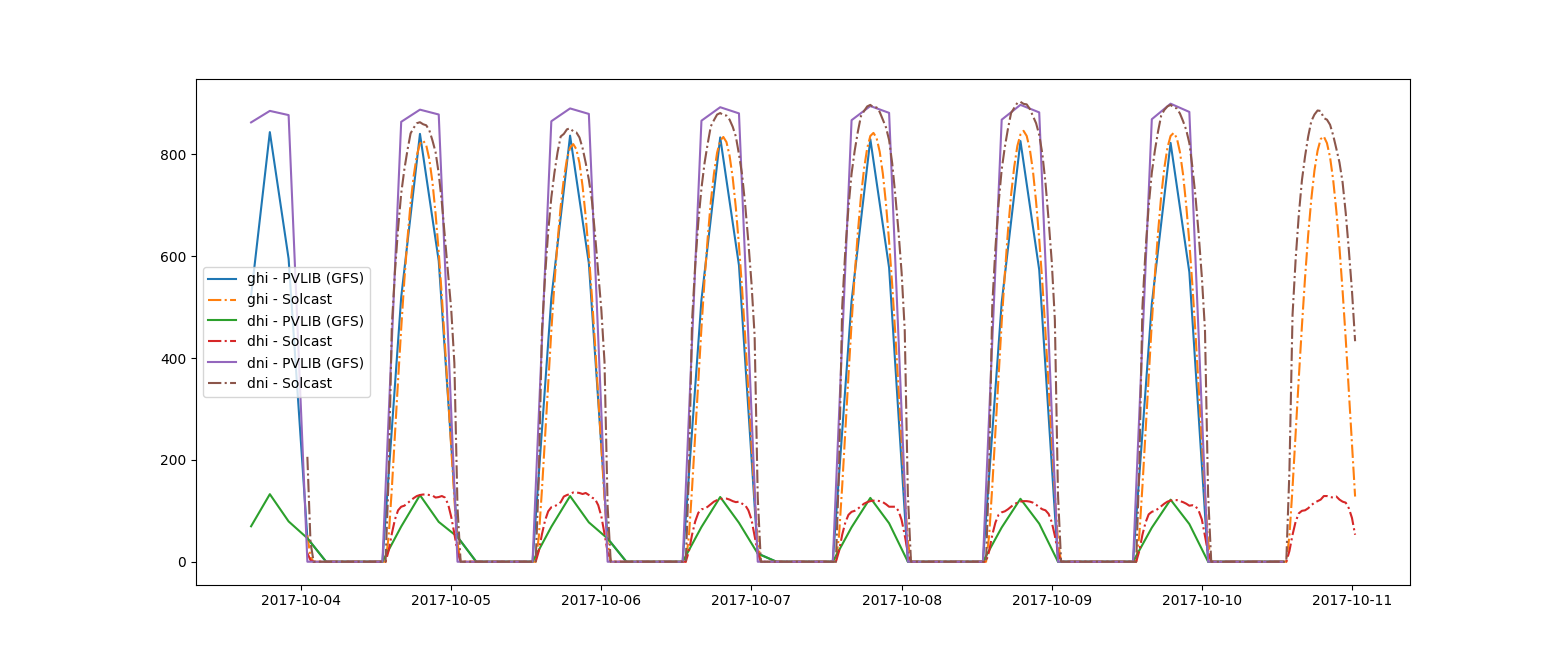
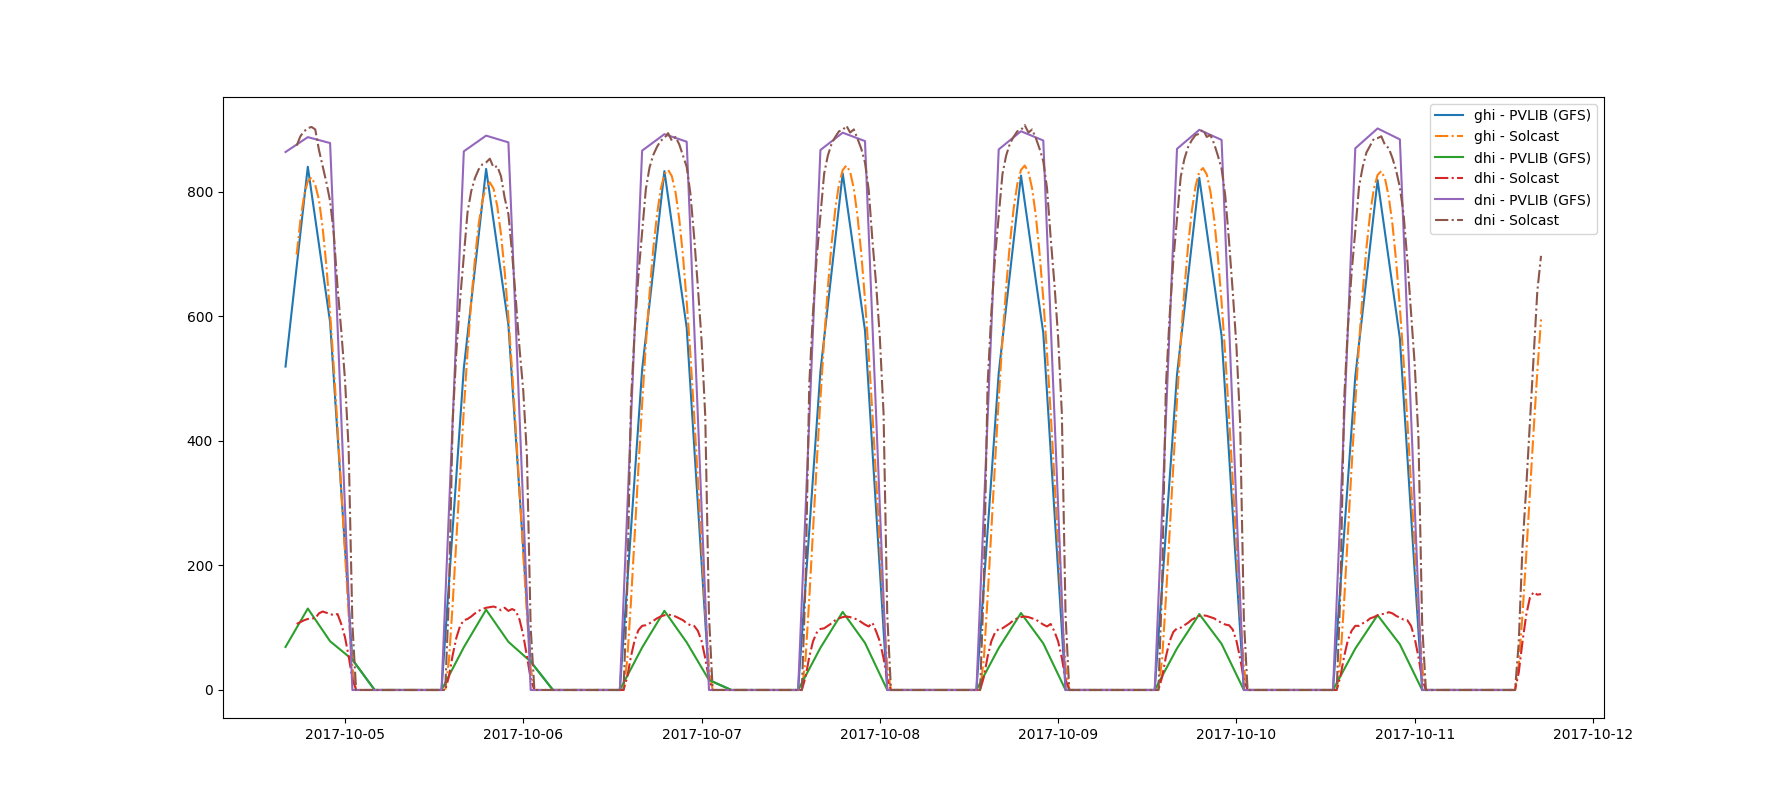
Consolidate solcast and pvlib code to main.py

diff --git a/main.py b/main.py
@@ -1,10 +1,18 @@
 import matplotlib.pyplot as plt
+import timeit
 from solcast_frames.latlng import LatLng
 from solcast_frames.radiationframehandler import RadiationFrameHandler
 from solcast_frames.powerframehandler import PowerFrameHandler
 
+import pandas as pd
+import datetime
+# import pvlib forecast models
+from pvlib.forecast import GFS, NAM, NDFD, HRRR, RAP
+
+
+
 plt.interactive(False) # Turn this off to create plots
-location = LatLng(lat=-33.86785, lng=151.215256, name="Sydney", tag="No wild Koalas")
+location = LatLng(lat=-33.86785, lng=151.215256, name="Sydney", tag="No wild Koalas", timezone="Australia/Sydney")
 print(location.desc())
 
 # Plot the power `pv_estimate`
@@ -15,8 +23,8 @@ print(location.desc())
 # tilt | range: [0 to 90] | default: 23
 # install_date | format: yyyyMMdd Will be ignored if a loss_factor is supplied
 # latest | [True, False] | default False
-powerEstimatedActuals = PowerFrameHandler.estimated_actuals(location, 5000, azimuth=0)
-powerEstimatedActuals.pv_estimate.plot()
+power_estimated_actuals = PowerFrameHandler.estimated_actuals(location, 5000, azimuth=0)
+power_estimated_actuals.pv_estimate.plot()
 
 # Plot the power `pv_estimate`
 # Required fields latlng valid position, capacity as integer > 0
@@ -25,18 +33,55 @@ powerEstimatedActuals.pv_estimate.plot()
 # tilt | range: [0 to 90] | default: 23
 # install_date | format: yyyyMMdd Will be ignored if a loss_factor is supplied
 # loss_factor | [0 to 1] | default 0.9
-powerForecast = PowerFrameHandler.forecast(location, 5000)
-powerForecast.pv_estimate.plot()
+fx_solcast_power = PowerFrameHandler.forecast(location, 5000)
+fx_solcast_power.pv_estimate.plot()
 plt.show()
 
 # Plot the radiation `ghi` field
 # Required fields latlng valid position
 # The following optional keyword arguments are recognized by the solcast-py library
 # latest | [True, False] | default False
-radiationEstimatedActuals = RadiationFrameHandler.estimated_actuals(location)
-radiationEstimatedActuals.ghi.plot()
+radiation_estimated_actuals = RadiationFrameHandler.estimated_actuals(location)
+radiation_estimated_actuals.ghi.plot()
 # Plot the radiation `ghi` field
 # Required fields latlng valid position
+fx_solcast_radiation = RadiationFrameHandler.forecast(location)
+fx_solcast_radiation.ghi.plot()
+plt.show()
+
+#
+# Following code is from http://pvlib-python.readthedocs.io/en/latest/forecasts.html
+#
+
+# Changing the location pvlib default model uses Tucson for examples
+location = LatLng(lat=32.2, lng=-110.9, name="Tucson", tag="Cactus Land", timezone="US/Arizona")
+print(location.desc())
+
+start_time = timeit.default_timer()
 radiationForecast = RadiationFrameHandler.forecast(location)
-radiationForecast.ghi.plot()
+elapsed = timeit.default_timer() - start_time
+print("Solcast Radiation Forecast Location: %s Time: %s (seconds)" % (location.name, '%.6f' % elapsed))
+
+# specify time range with timezone
+start = pd.Timestamp(datetime.date.today(), tz=location.timezone)
+end = start + pd.Timedelta(days=7)
+
+start_time = timeit.default_timer()
+# fx is a common abbreviation for forecast
+fx_model = GFS() # From Forecast models http://pvlib-python.readthedocs.io/en/latest/api.html#forecast-models
+fx_data = fx_model.get_processed_data(location.lat, location.lng, start, end)
+elapsed = timeit.default_timer() - start_time
+print("pvlib (GFS) Radiation Forecast Location: %s Time: %s (seconds)" % (location.name, '%.6f' % elapsed))
+
+
+plt.plot(fx_data.ghi, label="ghi - PVLIB (GFS)")
+plt.plot(radiationForecast.ghi, label="ghi - Solcast", linestyle='dashdot')
+
+plt.plot(fx_data.dhi, label="dhi - PVLIB (GFS)")
+plt.plot(radiationForecast.dhi, label="dhi - Solcast", linestyle='dashdot')
+
+plt.plot(fx_data.dni, label="dni - PVLIB (GFS)")
+plt.plot(radiationForecast.dni, label="dni - Solcast", linestyle='dashdot')
+
+plt.legend()
 plt.show()

diff --git a/solcast_frames/powerframehandler.py b/solcast_frames/powerframehandler.py
@@ -1,22 +1,23 @@
 import pandas as pd
 import solcast as sc
+from solcast_frames.latlng import LatLng
 
 class PowerFrameHandler:
 
-    def forecast(lat_lng, capacity, **kwargs):
+    def forecast(lat_lng: LatLng, capacity: int, **kwargs) -> pd.DataFrame:
         """
 
-        :rtype: object
+        :rtype: pd.DataFrame
         """
         data = sc.PvPowerForecasts(lat_lng.lat, lat_lng.lng, capacity, **kwargs).content["forecasts"]
         new_frame = pd.DataFrame(data)
         new_frame.set_index(['period_end'], inplace=True)
         return new_frame
 
-    def estimated_actuals(lat_Lng, capacity, **kwargs):
+    def estimated_actuals(lat_Lng: LatLng, capacity: int, **kwargs) -> pd.DataFrame:
         """
 
-        :rtype: object
+        :rtype: pd.DataFrame
         """
         data = sc.PvPowerEstimatedActuals(lat_Lng.lat, lat_Lng.lng, capacity, **kwargs).content["estimated_actuals"]
         new_frame = pd.DataFrame(data)

diff --git a/solcast_frames/radiationframehandler.py b/solcast_frames/radiationframehandler.py
@@ -1,21 +1,22 @@
 import solcast as sc
 import pandas as pd
+from solcast_frames.latlng import LatLng
 
 class RadiationFrameHandler:
-    def forecast(lat_lng, **kwargs):
+    def forecast(lat_lng: LatLng, **kwargs) -> pd.DataFrame:
         """
 
-        :rtype: object
+        :rtype: pd.DataFrame
         """
         data = sc.RadiationForecasts(lat_lng.lat, lat_lng.lng, **kwargs).content["forecasts"]
         new_frame = pd.DataFrame(data)
         new_frame.set_index(['period_end'], inplace=True)
         return new_frame
 
-    def estimated_actuals(lat_lng, **kwargs):
+    def estimated_actuals(lat_lng: LatLng, **kwargs) -> pd.DataFrame:
         """
 
-        :rtype: object
+        :rtype: pd.DataFrame
         """
         data = sc.RadiationEstimatedActuals(lat_lng.lat, lat_lng.lng, **kwargs).content["estimated_actuals"]
         new_frame = pd.DataFrame(data)

diff --git a/solcast_frames/latlng.py b/solcast_frames/latlng.py
@@ -3,6 +3,7 @@ class LatLng:
     lng = 0
     tag = None
     name = None
+    timezone = 'Etc/UTC' # Use UTC as default timezone
 
     def __init__(self, *args, **kwargs):
         if 'lat' in kwargs:
@@ -13,6 +14,10 @@ class LatLng:
             self.name = kwargs.get('name')
         if 'tag' in kwargs:
             self.tag = kwargs.get('tag')
+        if 'timezone' in kwargs:
+            self.timezone = kwargs.get('timezone')
+        else:
+            self.timezone = 'Etc/UTC'
 
     def desc(self):
-        return "Name: %s Tag:%s [%f, %f]" % (self.name, self.tag, self.lat, self.lng)
+        return "Name: %s Tag:%s [%f, %f] TimeZone: %s" % (self.name, self.tag, self.lat, self.lng, self.timezone)

diff --git a/README.md b/README.md
@@ -106,6 +106,3 @@ In the file **pvlib_solcast.py** is a minimal set of commands to obtain the foll
 **Radiation** Forecast pvlib vs Solcast `ghi` `dhi`, `dni`
 ![Radiation Compare pvlib/solcast](/imgs/pvlib_solcast_radiation.png)
 
-**Power** Forecast pvlib `ac` versus Solcast `pv_estimate`
-![Power Compare pvlib/solcast](/imgs/pvlib_solcast_power.png)
-
